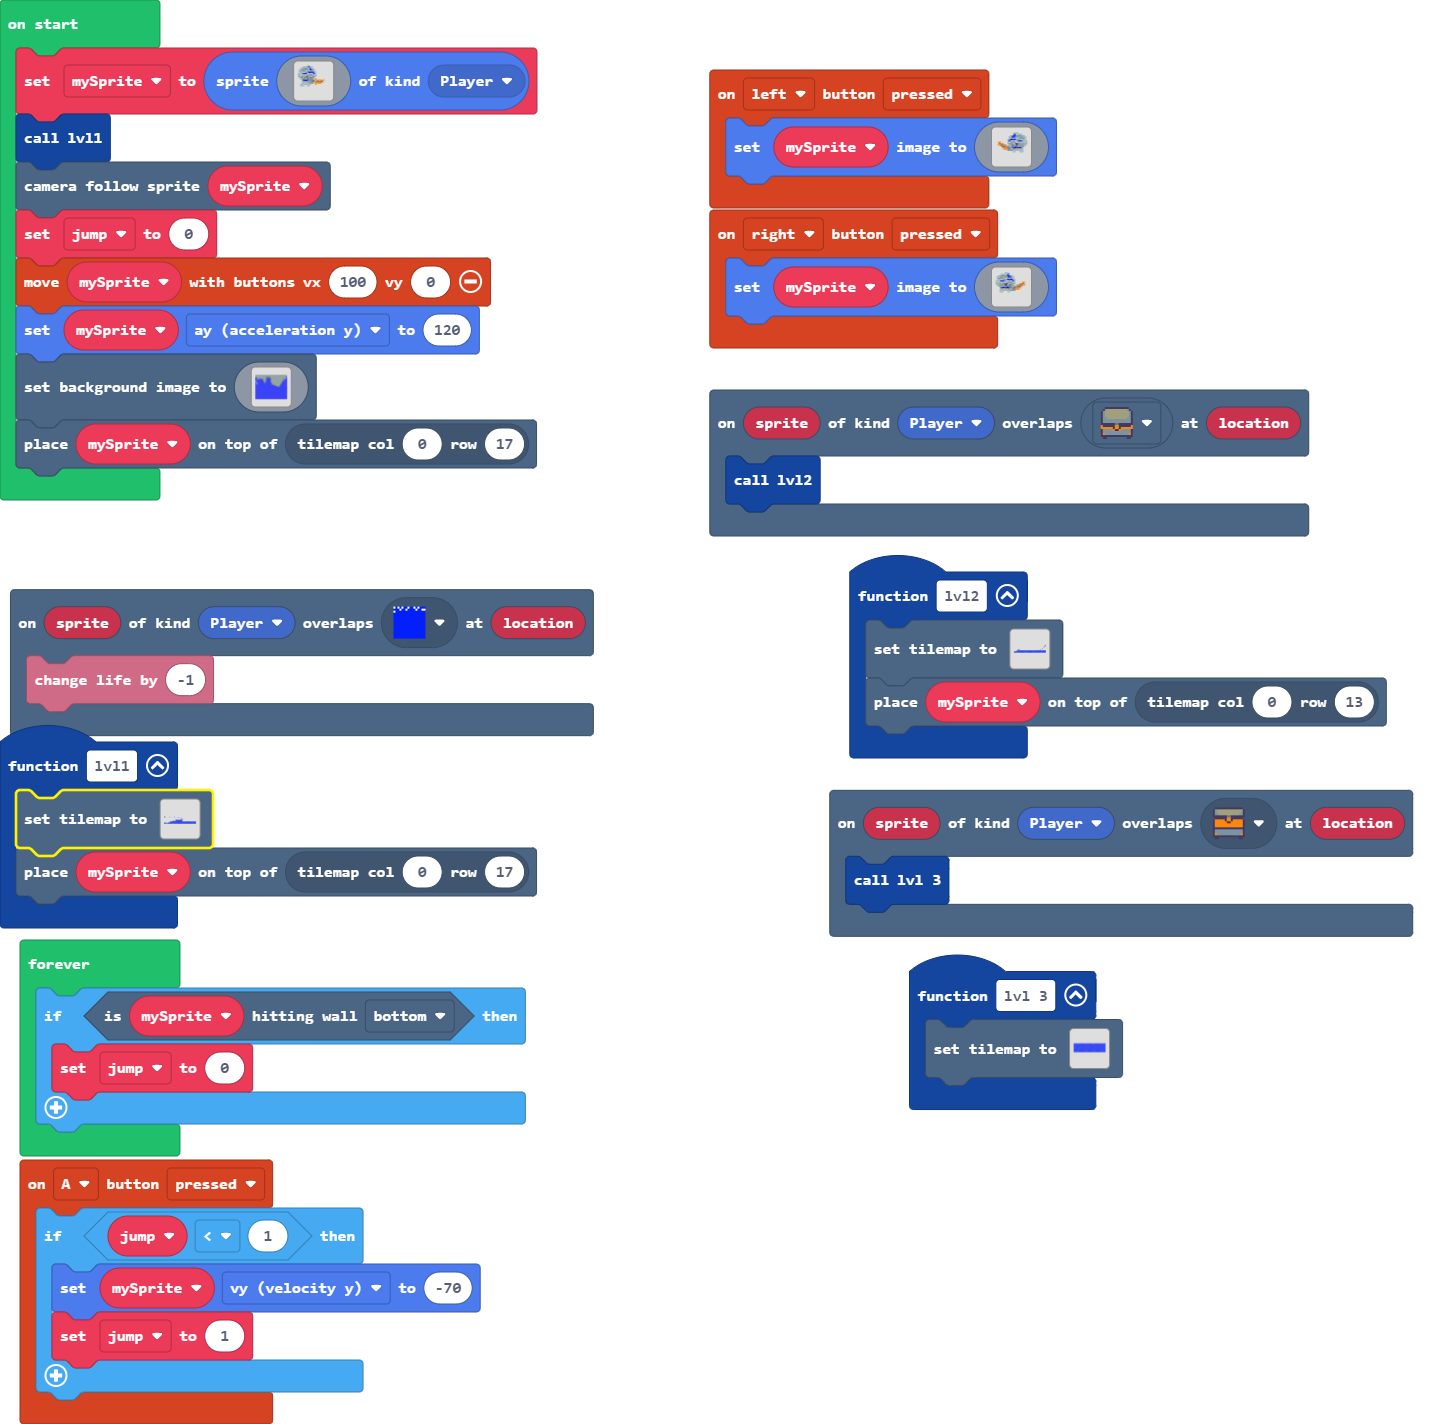
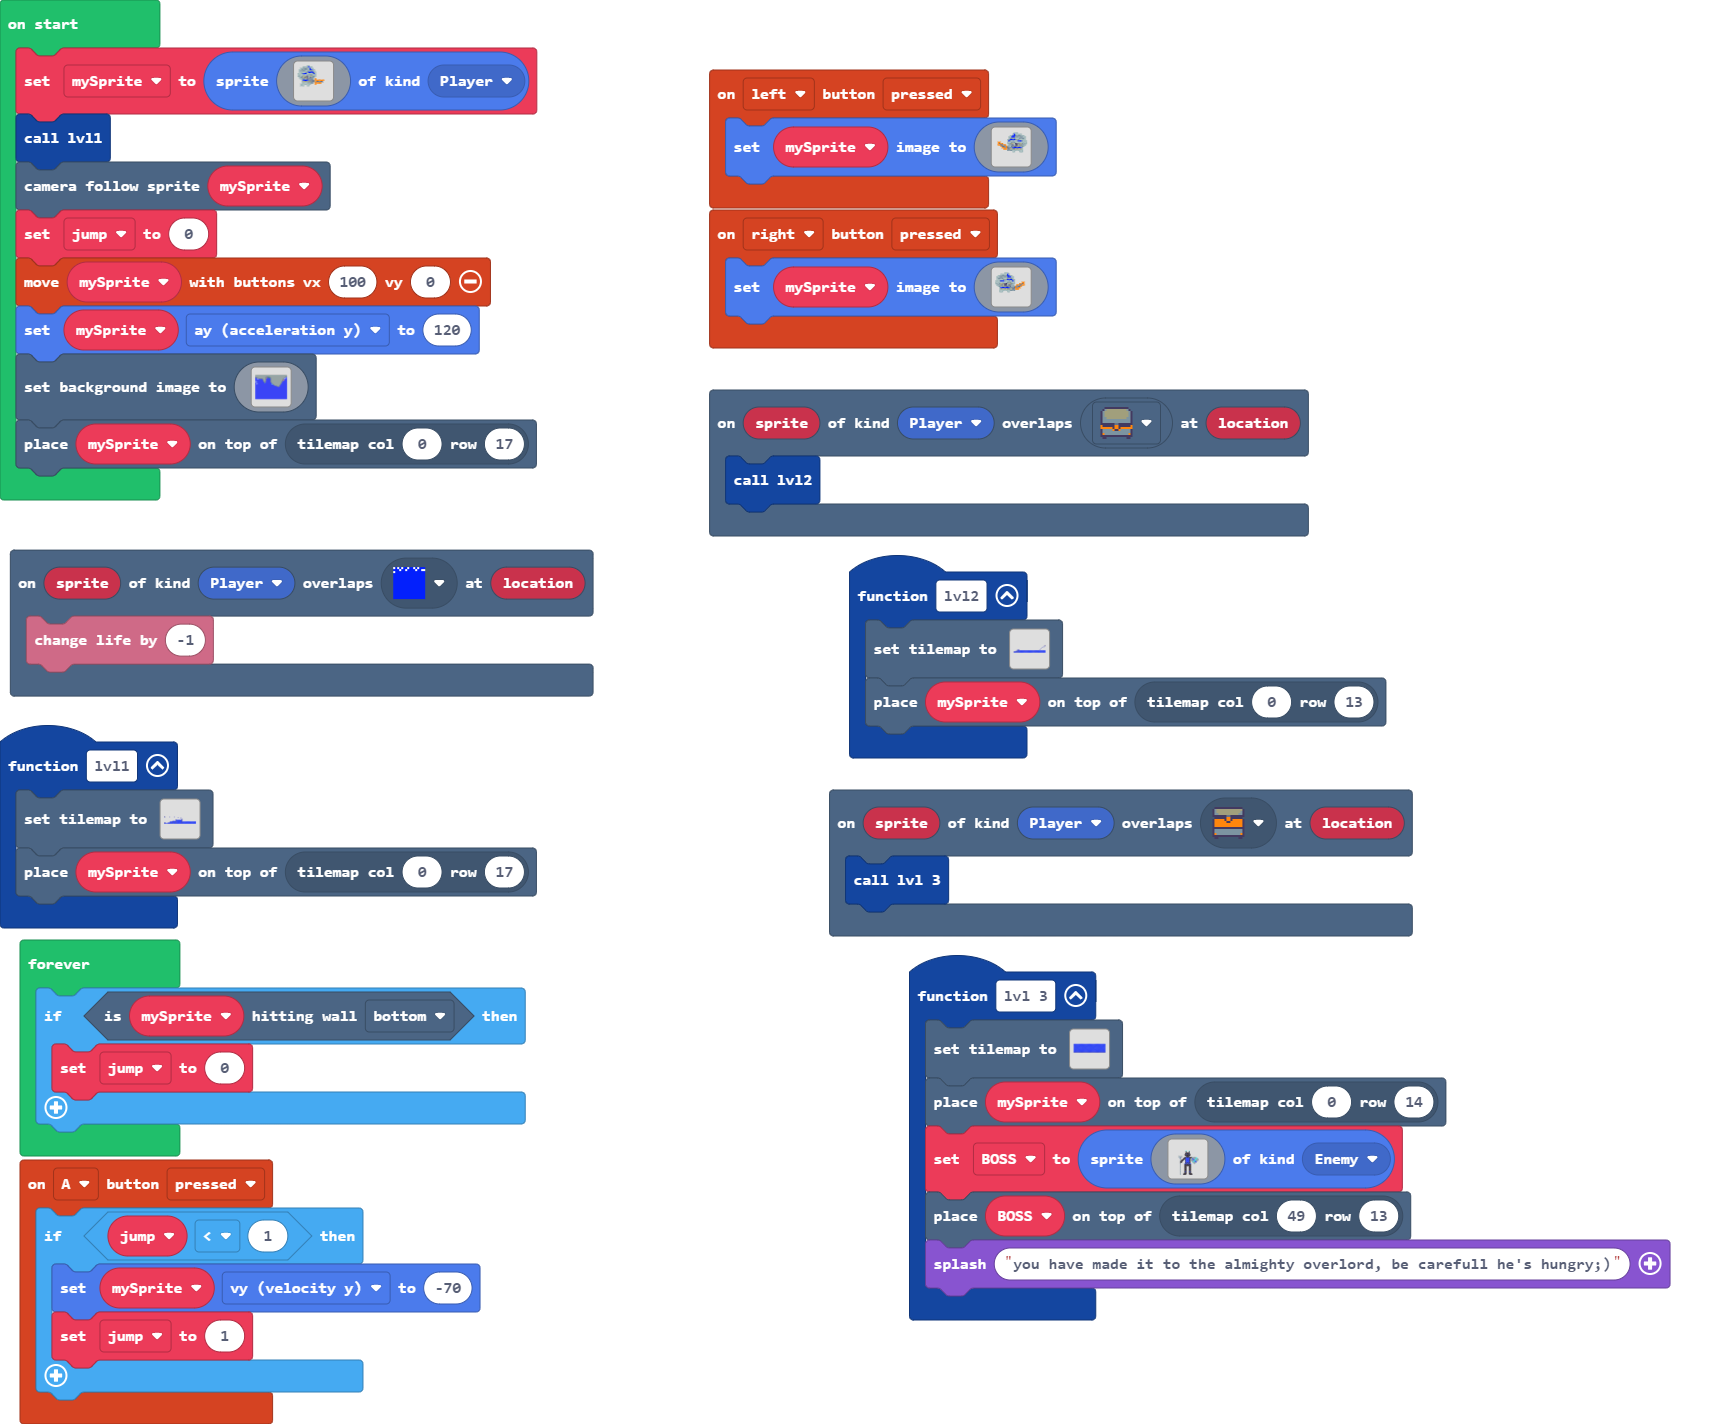
Update main.blocks, main.ts, tilemap.g.jres, tilemap.g.ts

diff --git a/tilemap.g.ts b/tilemap.g.ts
@@ -21,44 +21,6 @@ namespace myTiles {
 
     helpers._registerFactory("tilemap", function(name: string) {
         switch(helpers.stringTrim(name)) {
-            case "level2":
[1 lines of base64/hex data omitted]
-............................................................
-............................................................
-............................................................
-..........................................................22
-............................................................
-........................................................2...
-............................................................
-............................................................
-.....................................................2......
-............................................................
-.........2.......................................2..........
-.......2.2..................................................
-.......2.2....2....2..2.....2......2..........2.............
-....2..2.2..................................................
-222.2..2.2..................................................
-....2..2.2.............................22..2................
-`, [myTiles.transparency16,myTiles.tile2,myTiles.tile3,myTiles.tile4,myTiles.tile5,myTiles.tile6,myTiles.tile7,sprites.dungeon.chestOpen], TileScale.Sixteen);
-            case "level3":
[1 lines of base64/hex data omitted]
-............................................................
-............................................................
-............................................................
-............................................................
-............................................................
-............................................................
-............................................................
-............................................................
-............................................................
-............................................................
-............................................................
-............................................................
-............................................................
-............................................................
-............................................................
-............................................................
-`, [myTiles.transparency16,myTiles.tile7,myTiles.tile5,myTiles.tile8,myTiles.tile2,myTiles.tile3,myTiles.tile4,myTiles.tile6], TileScale.Sixteen);
             case "level1":
[1 lines of base64/hex data omitted]
 ............................................................
@@ -82,6 +44,44 @@ namespace myTiles {
 222....2...2....2.....2..........2..........................
 ...........2....2.....2..........2..........................
 `, [myTiles.transparency16,sprites.dungeon.chestClosed,myTiles.tile2,myTiles.tile3,myTiles.tile4,myTiles.tile5,myTiles.tile6,myTiles.tile7], TileScale.Sixteen);
+            case "level3":
[1 lines of base64/hex data omitted]
+............................................................
+............................................................
+............................................................
+............................................................
+............................................................
+............................................................
+............................................................
+............................................................
+............................................................
+............................................................
+............................................................
+............................................................
+............................................................
+............................................................
+............................................................
+222222222222222222222222222222222222222222222222222222222222
+`, [myTiles.transparency16,myTiles.tile7,myTiles.tile5,myTiles.tile8,myTiles.tile2,myTiles.tile3,myTiles.tile4,myTiles.tile6], TileScale.Sixteen);
+            case "level2":
[1 lines of base64/hex data omitted]
+............................................................
+............................................................
+............................................................
+..........................................................22
+............................................................
+........................................................2...
+.....................................................2......
+............................................................
+...................................................2........
+............................................................
+.........2.......................................2..........
+.......2.2..................................................
+.......2.2....2....2..2.....2......2..........2.............
+....2..2.2....................................2.............
+222.2..2.2....................................2.............
+....2..2.2.............................22..2..2.............
+`, [myTiles.transparency16,myTiles.tile2,myTiles.tile3,myTiles.tile4,myTiles.tile5,myTiles.tile6,myTiles.tile7,sprites.dungeon.chestOpen], TileScale.Sixteen);
         }
         return null;
     })

diff --git a/main.ts b/main.ts
@@ -3,6 +3,61 @@ scene.onOverlapTile(SpriteKind.Player, assets.tile`myTile0`, function (sprite, l
 })
 function lvl_3 () {
     tiles.setTilemap(tilemap`level3`)
+    tiles.placeOnTile(mySprite, tiles.getTileLocation(0, 14))
+    BOSS = sprites.create(img`
+        ........................................
+        ........................................
+        ........................................
+        ........................................
+        ........................................
+        ........................................
+        ........................................
+        ........................................
+        ........................................
+        ........................................
+        ........................................
+        ........................................
+        .................3....3.................
+        .................9....9.................
+        .................9....9.................
+        .................999999.................
+        ................9999999.................
+        ................99299929................
+        ...............999999999................
+        ................99999999................
+        ......e.e.e......999999.................
+        ......e.e.e.......9999..................
+        ......e.e.e....992999929999.eeeee.......
+        .......e2e....999222222999eeeeeee33.....
+        ........e....99992222229..e22eeee3ee....
+        ........e...999.92222229.eee2eee33eee...
+        ........e.9999..92222229eeee22233eeee...
+        ........e.999...92222229.eeeee33eeee....
+        ........e999....92222229..eeee322ee.....
+        ........999.....92222229...e33ee22......
+        ........e99.....92222229....eeeee.......
+        ........9.......99999999.....eee........
+        ........e......2222e22222.....e.........
+        ........e......9999999999...............
+        ........e......9999999999...............
+        ........e......9999999999...............
+        ........e......999....999...............
+        ........e......999....999...............
+        ........e......999....999...............
+        ........e......999....999...............
+        ........e......999....999...............
+        ........e......999....999...............
+        ........e......999....999...............
+        ........e......999....999...............
+        ........e......929....929...............
+        ........e......929....929...............
+        ........e......999....999...............
+        ........e.....9999....9999..............
+        ........e....99999....99999.............
+        ........e....9999......9999.............
+        `, SpriteKind.Enemy)
+    tiles.placeOnTile(BOSS, tiles.getTileLocation(49, 13))
+    game.splash("you have made it to the almighty overlord, be carefull he's hungry;)")
 }
 controller.A.onEvent(ControllerButtonEvent.Pressed, function () {
     if (jump < 1) {
@@ -80,6 +135,7 @@ function lvl2 () {
 scene.onOverlapTile(SpriteKind.Player, sprites.dungeon.chestOpen, function (sprite, location) {
     lvl_3()
 })
+let BOSS: Sprite = null
 let jump = 0
 let mySprite: Sprite = null
 mySprite = sprites.create(img`
